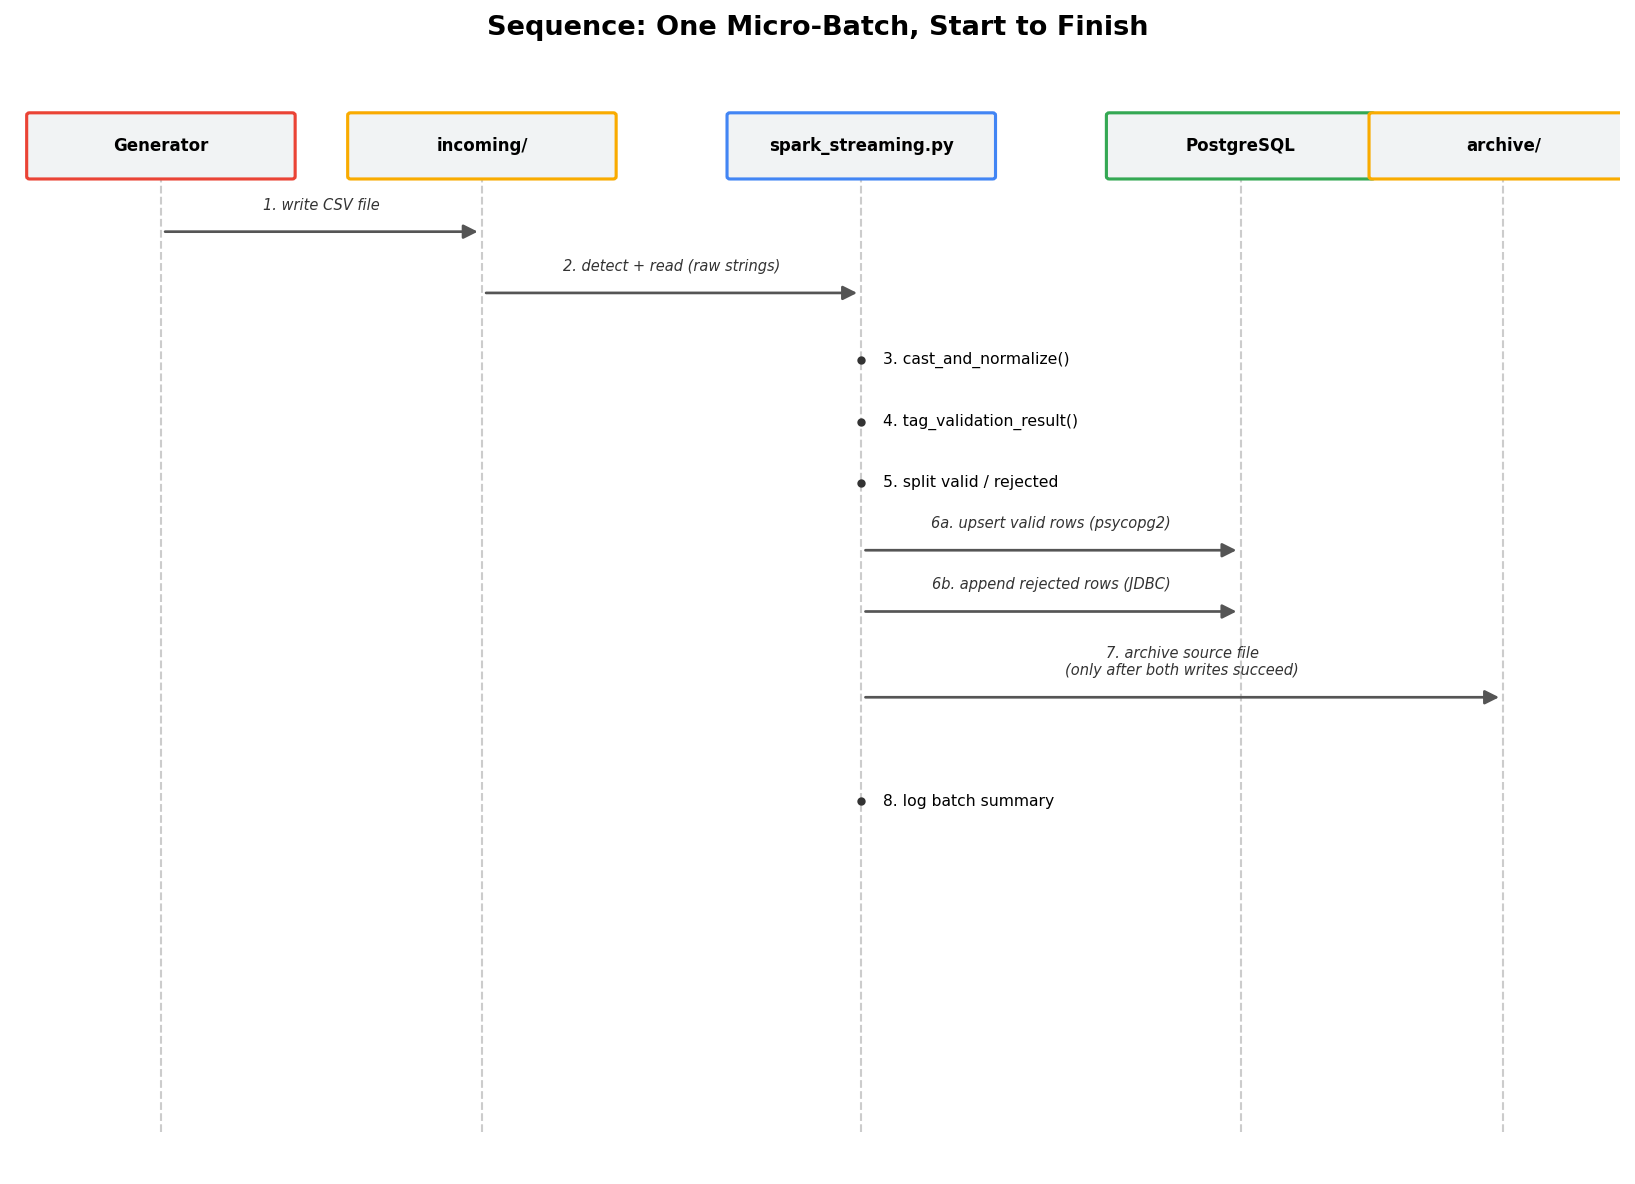
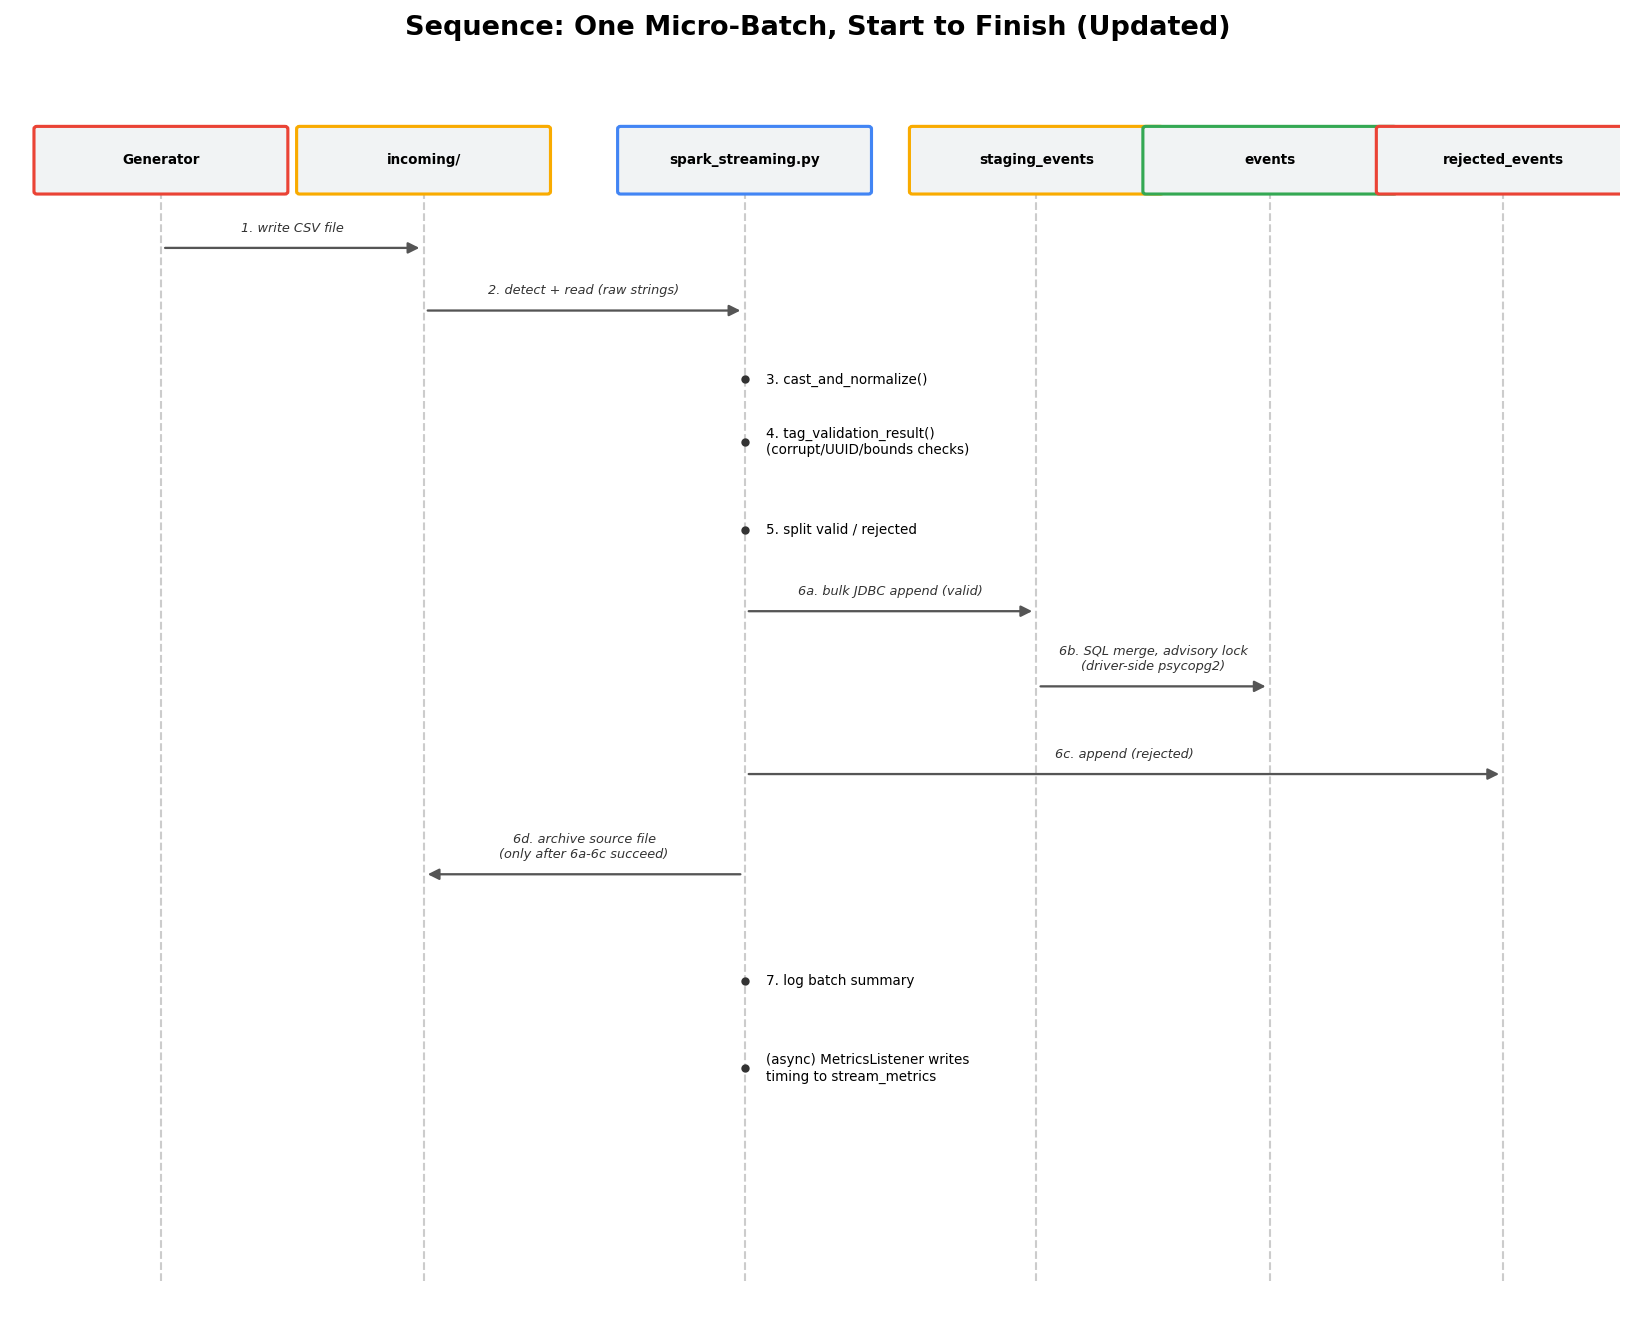
docs: update sequence_and_state.md and both diagrams - reflect staging+merge write path, added validation checks, MetricsListener as async side-effect

diff --git a/docs/sequence_and_state.md b/docs/sequence_and_state.md
@@ -20,28 +20,44 @@ Architecture (see architecture.md) shows the static component layout. This docum
    (a value that fails to cast becomes null, not a crash)
 
 4. tag_validation_result() checks each data_contract.md rule in a
-   fixed order, attaching a rejection_reason (or null if valid)
+   fixed order, attaching a rejection_reason (or null if valid).
+   Checked in this order: malformed CSV structure (_corrupt_record)
+   -> event_id UUID format -> missing user_id/product_id -> invalid
+   event_type -> price bounds (negative, then over MAX_PRICE) ->
+   quantity bounds (zero/negative, then over MAX_QUANTITY) ->
+   timestamp (unparseable, then too far in the future)
 
 5. split_valid_and_rejected() separates the batch into two DataFrames:
    - valid_df: rejection_reason is null, dropDuplicates() applied
    - rejected_df: rejection_reason is not null
 
 6. Inside process_batch() (called once per micro-batch by foreachBatch):
-   a. write_valid_to_postgres(valid_df) - repartition(4), then each
-      partition opens its own psycopg2 connection and bulk-upserts
-      with ON CONFLICT DO NOTHING
-   b. write_rejected_to_postgres(rejected_df) - Spark's standard
+   a. write_valid_to_postgres(valid_df, run_id, batch_id) - Spark's
+      bulk JDBC writer appends valid_df into staging_events, tagged
+      with the current run_id and batch_id
+   b. merge_staging_to_events(run_id, batch_id) - on the driver, via
+      a plain psycopg2 connection: acquires a Postgres advisory lock,
+      runs INSERT INTO events SELECT ... FROM staging_events WHERE
+      run_id = ? AND batch_id = ? ON CONFLICT (event_id) DO NOTHING,
+      deletes the now-merged staging rows, releases the lock
+   c. write_rejected_to_postgres(rejected_df) - Spark's standard
       JDBC writer, simple append (no upsert needed, no unique
       constraint on rejected_events)
-   c. archive_source_files(batch_df) - ONLY reached if steps (a) and
-      (b) both completed without raising an exception; moves every
+   d. archive_source_files(batch_df) - ONLY reached if steps (a)-(c)
+      all completed without raising an exception; moves every
       source file referenced in this batch from data/incoming/ to
       data/processed_archive/
 
 7. The batch summary (valid count, rejected count) is logged
+
+   Independently of the above: MetricsListener.onQueryProgress()
+   fires automatically after the batch completes, writing Spark's
+   own internal timing (batch duration, rows/sec) to stream_metrics
+   - this happens outside process_batch(), driven by Spark's own
+   event system rather than being called explicitly in this sequence
 ```
 
-**Key ordering detail worth naming explicitly:** archiving happens LAST, only after both database writes succeed. If either write throws an exception, the source file remains in data/incoming/, untouched - meaning the next trigger (or a restart, via the checkpoint) will retry the same file rather than silently losing it. This ordering is what makes the pipeline's error handling in error_handling_and_recovery.md actually work.
+**Key ordering detail worth naming explicitly:** archiving happens LAST, only after the staging write, the merge, AND the rejected write all succeed. If any of these three steps throws an exception, the source file remains in data/incoming/, untouched - meaning the next trigger (or a restart, via the checkpoint) will retry the same file rather than silently losing it. This ordering is what makes the pipeline's error handling in error_handling_and_recovery.md actually work.
 
 ## State: Lifecycle of a Single Record
 
@@ -59,8 +75,10 @@ Processing
 
    then splits into one of two paths:
 
-Valid -> Stored
-   -> written to the events table
+Valid -> Staged -> Stored
+   -> written to staging_events, then merged into the events table
+      in the same batch (see engineering_decisions.md for why this
+      two-step path exists instead of a direct write)
 
 Rejected -> Quarantined
    -> written to the rejected_events table
